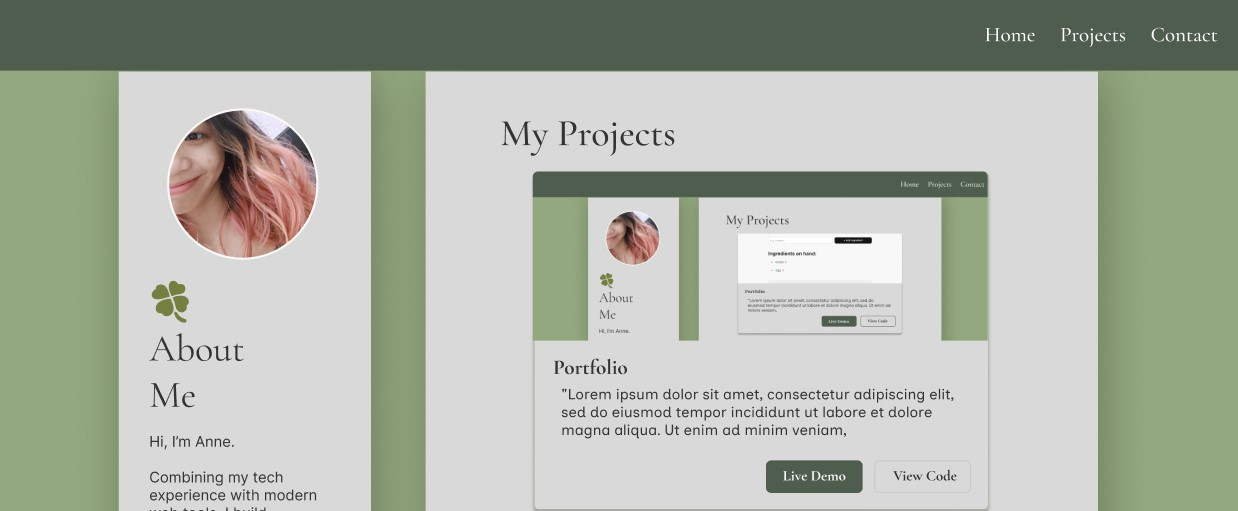
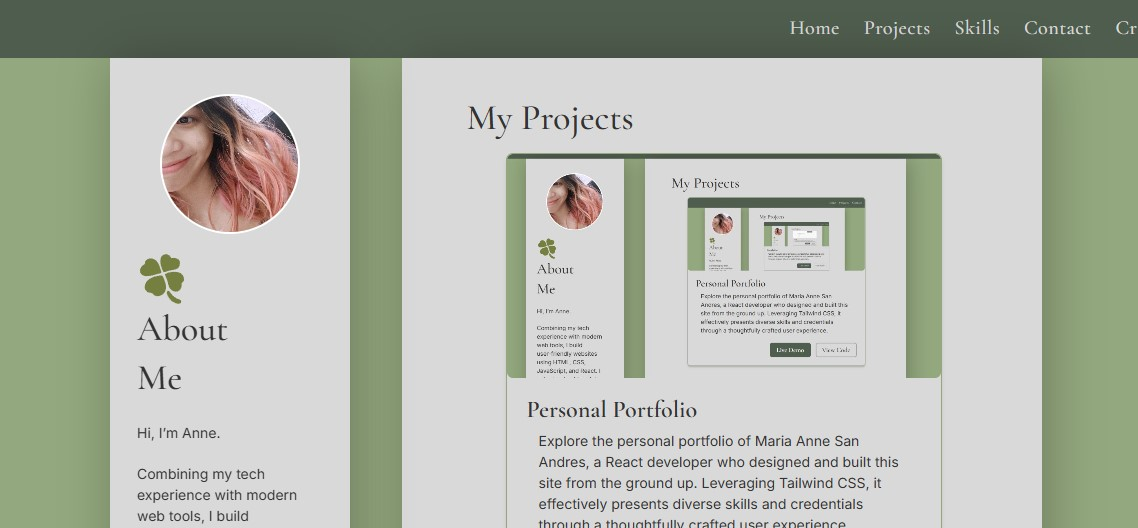
feat: added prem feel for project images and replaced images
- added transition for images with subtle shadow and ease-out
- removed ff buttons LiveDemoButton, ResumeButton, ViewCodeButton for code cleanup
- updated images of portfolio and travel-journal
- added container for project images

Changed region(s): [[0.0, 0.0294, 1.0, 1.0], [0.3998, 0.2055, 0.8304, 0.7339], [0.4306, 0.7632, 0.7996, 1.0]]

diff --git a/src/components/ui/ProjectCard.jsx b/src/components/ui/ProjectCard.jsx
@@ -31,14 +31,17 @@ export default function ProjectCard() {
             initial="hidden"
             animate={isInView ? "visible" : "hidden"}
             variants={cardVariants}
-            custom={index === 0 ? 3.5 : 0} // first card delay 3.5s, others no delay
+            custom={index === 0 ? 3.5 : 0}
             className="bg-cream mb-9 h-auto w-[434px] rounded-md pb-5 shadow-[0px_4px_4px_0px_rgba(0,_0,_0,_0.2)] outline outline-[0.5px] outline-[#93a87e] last:mb-0"
           >
-            <img
-              src={project.image}
-              alt={project.alt}
-              className="rounded-md object-cover"
-            />
+            <div className="h-56 rounded-t-md transition-all duration-500 ease-out hover:shadow-lg hover:shadow-black/20">
+              <img
+                src={project.image}
+                alt={project.alt}
+                className="h-full w-full object-cover"
+              />
+            </div>
+
             <h2 className="mx-5 mb-1 mt-4 text-2xl font-semibold">
               {project.title}
             </h2>
